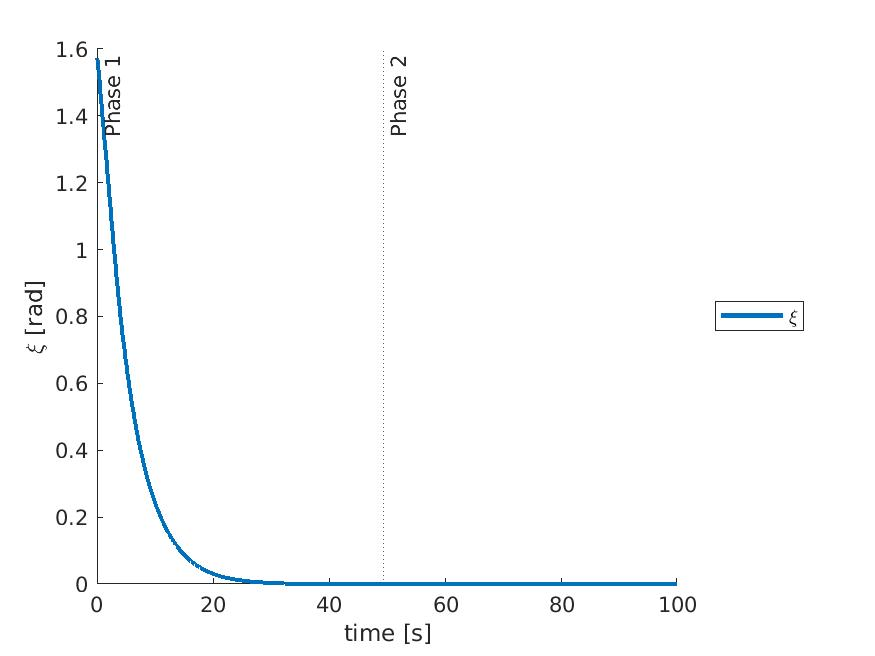
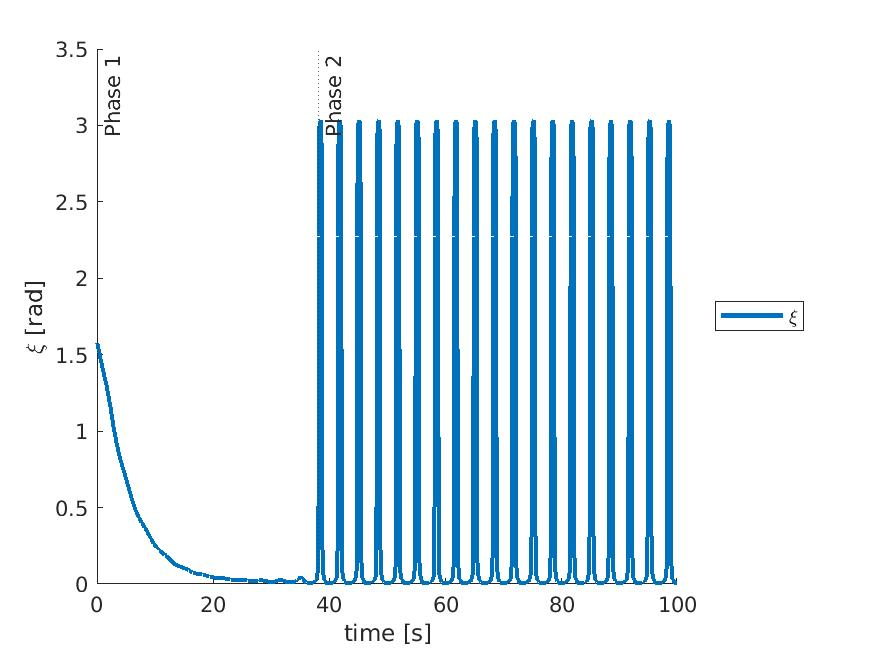
start 6_1

diff --git a/cooperative_robotics/ComputeTaskReferences.m b/cooperative_robotics/ComputeTaskReferences.m
@@ -38,8 +38,9 @@ uvms.xdot.land = - velocity_landing * (uvms.alt - 0);
 uvms.xdot.ga = - 0.2 * norm(uvms.xi);
 
 %TASK 4.1 -----------------------------------------------
-[ang, lin] = CartError(uvms.fixedPose , uvms.wTv);
-uvms.xdot.fix = Saturate(0.2 * [ang; lin], 0.2);
+% [ang, lin] = CartError(uvms.fixedPose , uvms.wTv);
+% uvms.xdot.fix = Saturate(0.2 * [ang; lin], 0.2);
+uvms.xdot.fix = [0 0 0 0 0 0]';
 
 %TASK 4.2 ----------------------------------------------
 uvms.xdot.jl = Saturate(0.2 *((uvms.jlmax + uvms.jlmin)/2 - uvms.q), 0.2);     % Create a velocity away from the limits => move to the middle between jlmax and jlmin

diff --git a/cooperative_robotics/MainDexrov.m b/cooperative_robotics/MainDexrov.m
@@ -74,9 +74,13 @@ for t = 0:deltat:end_time
     [Qp, rhop] = EnableTasksSetPriorities(uvms, mission, rhop, Qp);
     [Qp, rhop] = iCAT_task(eye(13),     eye(13),    Qp, rhop, zeros(13,1),  0.0001,   0.01, 10);    % this task should be the last one
     
+
+    rhop(8) = rhop(8) + 0.2*sin(2*pi*0.3*t);
+
     % get the two variables for integration
     uvms.v_q_dot = rhop(1:7);
     uvms.v_p_dot = rhop(8:13);
+
     
     % Integration
 	uvms.q = uvms.q + uvms.v_q_dot*deltat;
